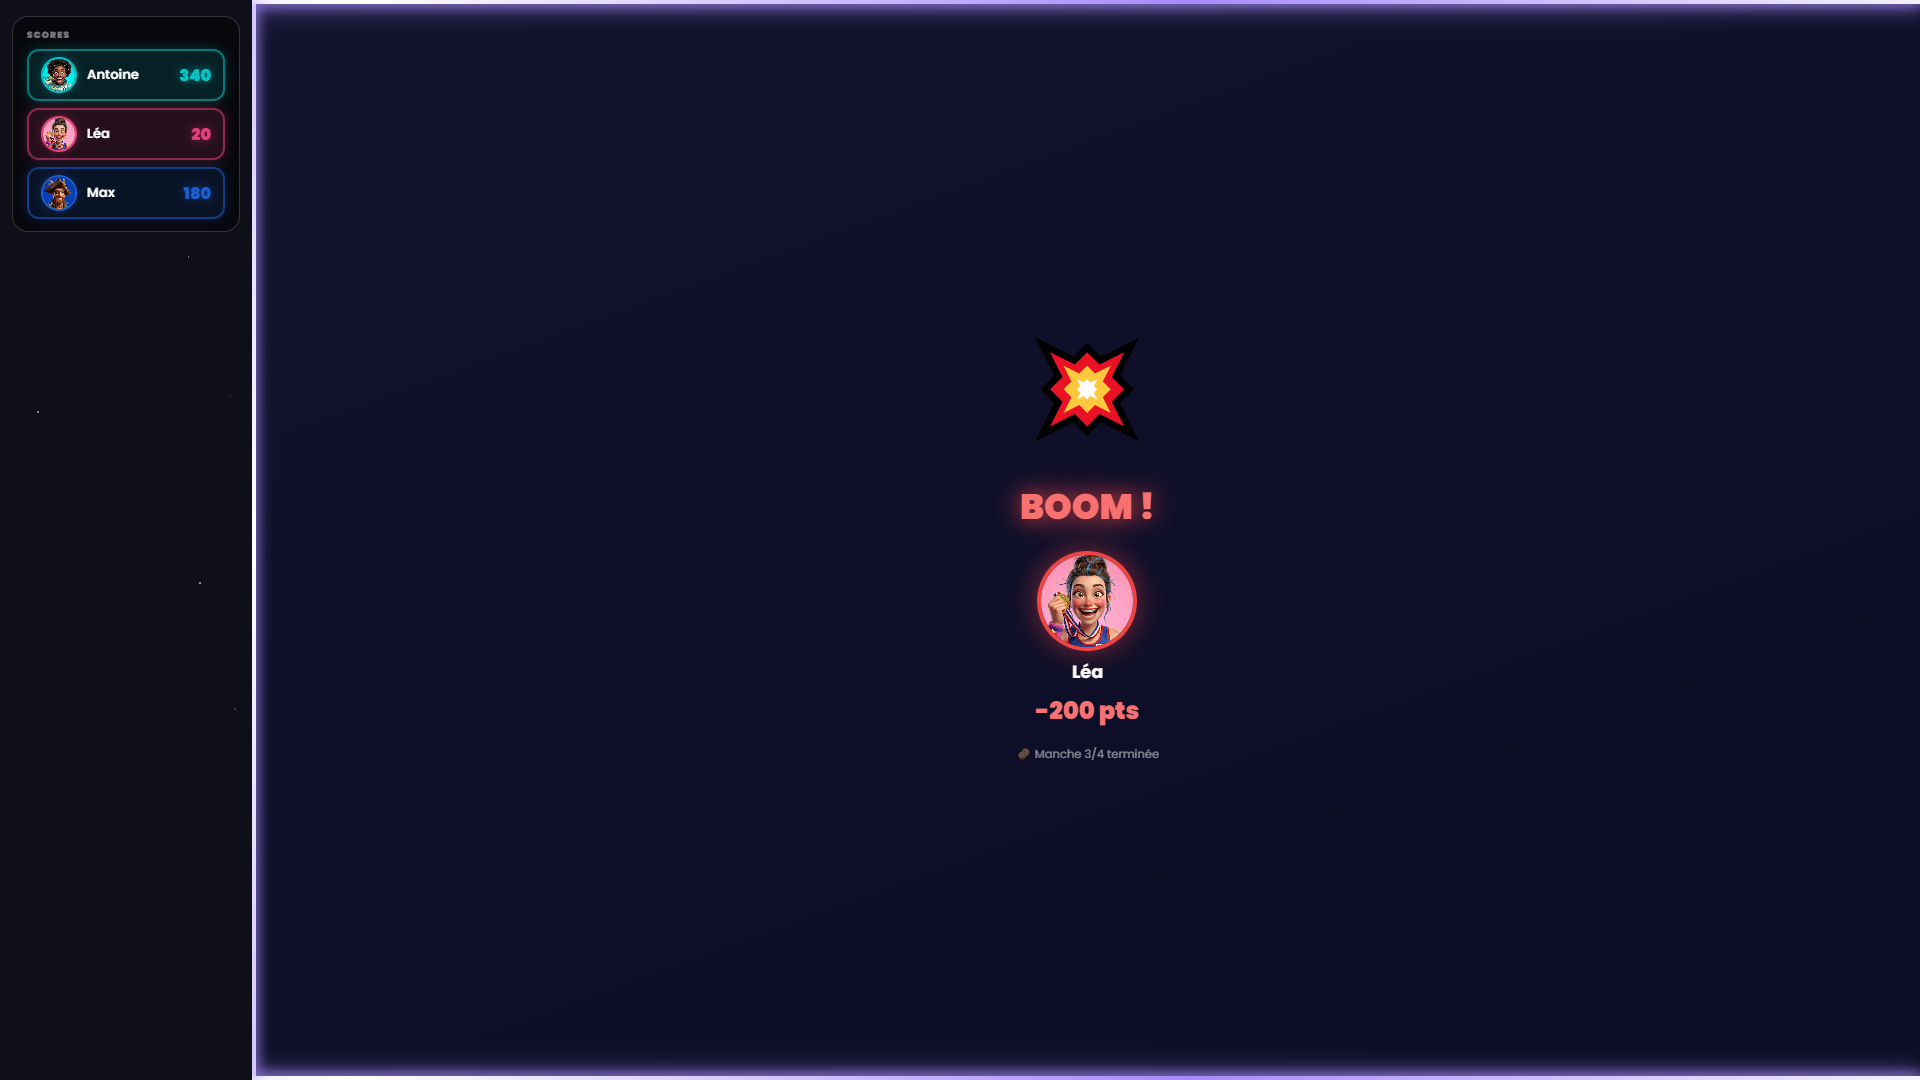
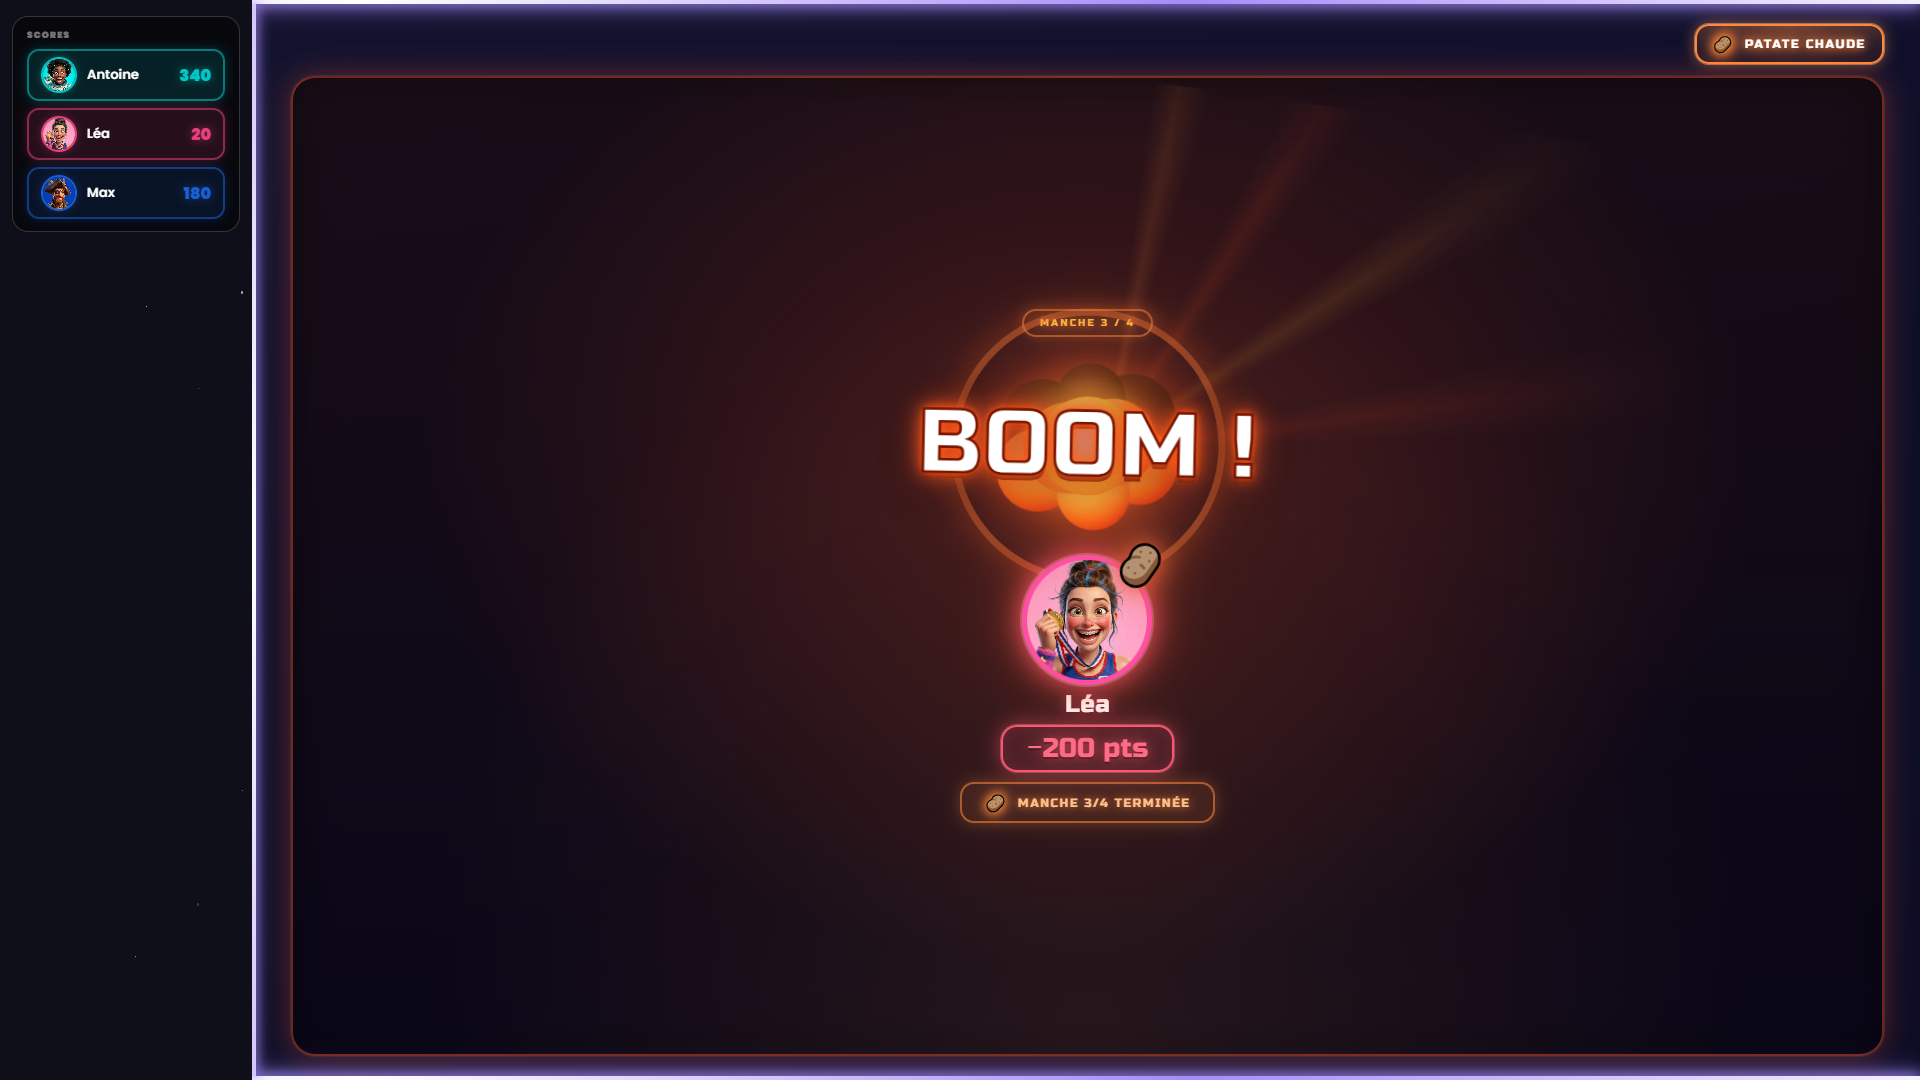
feat(inter-patate): refonte écran 'BOOM explosion' style néon

Changed region(s): [[0.125, 0.0, 1.0, 0.9778], [0.1562, 0.9778, 0.9688, 1.0], [0.5312, 0.9167, 0.5938, 0.9472]]

diff --git a/css/style.css b/css/style.css
@@ -3193,6 +3193,274 @@ input::placeholder { color:rgba(255,255,255,.3) }
 .pinte-sub-spud { font-size:1.15rem; filter:drop-shadow(0 0 6px rgba(255,138,58,.9)) }
 
 /* ════════════════════════════════════════════════════════════
+   Patate inter — "BOOM" (15-inter-patate)
+   Explosion néon orange/rouge avec fireball, débris, onde de choc
+   ════════════════════════════════════════════════════════════ */
+@keyframes pboomCloudBoil {
+  0%,100% { transform:translate(-50%,-50%) scale(1)    rotate(-2deg); }
+  50%     { transform:translate(-50%,-50%) scale(1.05) rotate(2deg); }
+}
+@keyframes pboomPuffBoil {
+  from { transform:translate(var(--x), var(--y)) scale(1); }
+  to   { transform:translate(var(--x), var(--y)) scale(1.12); }
+}
+@keyframes pboomFireballPulse {
+  0%,100% { transform:scale(1);    opacity:.96; }
+  50%     { transform:scale(1.14); opacity:1; }
+}
+@keyframes pboomFlashOut {
+  0%   { transform:translate(-50%,-50%) scale(.3); opacity:.95; }
+  40%  { opacity:.5; }
+  100% { transform:translate(-50%,-50%) scale(2.6); opacity:0; }
+}
+@keyframes pboomShockOut {
+  0%   { transform:translate(-50%,-50%) scale(.4); opacity:0; }
+  14%  { opacity:.9; }
+  100% { transform:translate(-50%,-50%) scale(2.4); opacity:0; }
+}
+@keyframes pboomDebrisFly {
+  0%   { transform:translate(-50%,-50%) scale(.4); opacity:0; }
+  12%  { opacity:1; }
+  100% { transform:translate(calc(-50% + var(--dx)), calc(-50% + var(--dy))) scale(.2); opacity:0; }
+}
+@keyframes pboomPop {
+  0%,100% { transform:translate(-50%,-50%) scale(1)    rotate(-1.5deg); }
+  50%     { transform:translate(-50%,-50%) scale(1.05) rotate(1.5deg); }
+}
+@keyframes pboomLoserShake {
+  0%,100% { transform:rotate(-2deg); }
+  25%     { transform:rotate(2deg); }
+  50%     { transform:rotate(-1.5deg); }
+  75%     { transform:rotate(1.5deg); }
+}
+@keyframes pboomStageShake {
+  10%, 90% { transform:translate(-2px, 1px); }
+  20%, 80% { transform:translate(3px, -1px); }
+  30%, 50%, 70% { transform:translate(-5px, 2px); }
+  40%, 60% { transform:translate(5px, -2px); }
+}
+
+.pboom-wrap {
+  position:relative;
+  width:100%; height:100%;
+  display:flex; flex-direction:column;
+  gap:12px;
+  z-index:1;
+  animation:pboomStageShake .55s cubic-bezier(.36,.07,.19,.97) both;
+}
+.pboom-scene {
+  flex:1; min-height:0;
+  position:relative;
+  border-radius:24px;
+  padding:18px 24px;
+  display:flex; flex-direction:column;
+  align-items:center; justify-content:center;
+  gap:10px;
+  background:
+    radial-gradient(ellipse at 50% 40%, rgba(255,84,40,.22) 0%, transparent 60%),
+    radial-gradient(ellipse at 50% 100%, rgba(255,138,58,.12) 0%, transparent 60%),
+    linear-gradient(180deg, rgba(30,10,8,.6) 0%, rgba(8,4,18,.74) 100%);
+  border:2.5px solid rgba(255,84,40,.4);
+  box-shadow:0 0 0 1px rgba(255,255,255,.06), 0 0 30px rgba(255,84,40,.34), inset 0 0 40px rgba(0,0,0,.4);
+  overflow:hidden;
+  animation:fadeIn .4s ease both;
+}
+.pboom-rays {
+  position:absolute; inset:0;
+  pointer-events:none;
+  background:
+    conic-gradient(from 0deg at 50% 38%,
+      transparent 0deg, rgba(255,138,58,.14) 4deg, transparent 9deg,
+      transparent 20deg, rgba(255,84,40,.12) 25deg, transparent 30deg,
+      transparent 44deg, rgba(255,180,60,.12) 49deg, transparent 54deg,
+      transparent 70deg, rgba(255,84,40,.10) 75deg, transparent 80deg);
+  mask:radial-gradient(circle at 50% 38%, #000 0%, #000 30%, transparent 60%);
+  -webkit-mask:radial-gradient(circle at 50% 38%, #000 0%, #000 30%, transparent 60%);
+  animation:pinteRaysSpin 26s linear infinite;
+  opacity:.85;
+}
+
+.pboom-kicker {
+  position:relative; z-index:3;
+  align-self:center;
+  display:inline-flex; align-items:center; gap:10px;
+  padding:6px 16px;
+  border-radius:999px;
+  background:rgba(255,138,58,.10);
+  border:2px solid rgba(255,138,58,.5);
+  box-shadow:0 0 14px rgba(255,138,58,.3);
+  font-family:'Russo One',sans-serif;
+  font-size:.62rem; letter-spacing:.22em;
+  color:#ffb43c;
+  text-shadow:0 0 8px #ff8a3a;
+}
+
+.pboom-head {
+  position:relative; z-index:3;
+  flex-shrink:0;
+  display:flex; align-items:center; justify-content:center;
+  margin-top:4px;
+}
+.pboom-burst {
+  position:relative;
+  width:190px; height:190px;
+  display:flex; align-items:center; justify-content:center;
+}
+.pboom-cloud {
+  position:absolute; left:50%; top:50%;
+  width:190px; height:190px;
+  transform:translate(-50%,-50%);
+  z-index:3;
+  filter:drop-shadow(0 0 24px rgba(255,84,40,.65));
+  animation:pboomCloudBoil 1.8s ease-in-out infinite;
+}
+.pboom-puff {
+  position:absolute;
+  width:var(--d); height:var(--d);
+  left:50%; top:50%;
+  border-radius:50%;
+  margin:calc(var(--d) / -2) 0 0 calc(var(--d) / -2);
+  transform:translate(var(--x), var(--y));
+  background:radial-gradient(circle at 38% 32%,
+    #ffe7a6 0%, #ffb43c 30%, #ff6a1a 58%, #d61c10 86%);
+  animation:pboomPuffBoil var(--t,2s) ease-in-out infinite alternate;
+}
+.pboom-puff.smoke {
+  background:radial-gradient(circle at 40% 34%,
+    #6b3320 0%, #4a2014 55%, #2a0f08 88%);
+  opacity:.92;
+}
+.pboom-fireball {
+  position:relative; z-index:4;
+  width:88px; height:88px;
+  border-radius:50%;
+  background:radial-gradient(circle at 45% 40%,
+    #ffffff 0%, #fff3b0 28%, #ffd23a 50%, #ff7a18 78%, rgba(255,84,40,0) 92%);
+  box-shadow:0 0 32px #ffb43c, 0 0 72px rgba(255,120,30,.8);
+  animation:pboomFireballPulse .9s ease-in-out infinite;
+}
+.pboom-flash {
+  position:absolute; left:50%; top:50%;
+  width:110px; height:110px;
+  border-radius:50%;
+  transform:translate(-50%,-50%);
+  background:radial-gradient(circle, rgba(255,255,255,.9) 0%, rgba(255,210,90,.4) 35%, transparent 70%);
+  z-index:5;
+  animation:pboomFlashOut 1.9s ease-out infinite;
+  opacity:0;
+}
+.pboom-shock {
+  position:absolute; left:50%; top:50%;
+  width:160px; height:160px;
+  border-radius:50%;
+  border:4px solid rgba(255,120,50,.9);
+  transform:translate(-50%,-50%) scale(.4);
+  box-shadow:0 0 22px rgba(255,100,30,.7);
+  opacity:0;
+  animation:pboomShockOut 1.9s cubic-bezier(.2,.6,.4,1) infinite;
+  z-index:2;
+}
+.pboom-shock.b { animation-delay:.95s; }
+.pboom-debris {
+  position:absolute; left:50%; top:50%;
+  width:10px; height:10px;
+  border-radius:50%;
+  background:radial-gradient(circle, #ffe6b0 0%, #ff7a1a 60%, transparent 74%);
+  filter:drop-shadow(0 0 5px #ff8a3a);
+  opacity:0;
+  animation:pboomDebrisFly 1.8s ease-out infinite;
+  z-index:2;
+}
+.pboom-text {
+  position:absolute;
+  left:50%; top:50%;
+  transform:translate(-50%,-50%);
+  z-index:6;
+  font-family:'Russo One',sans-serif;
+  font-size:5.4rem; letter-spacing:.02em; line-height:1;
+  white-space:nowrap;
+  color:#fff;
+  -webkit-text-stroke:2.5px #7a1500;
+  text-shadow:
+    0 0 6px #ff5a18,
+    0 0 16px #ff5a18,
+    0 0 32px rgba(255,84,40,1),
+    0 0 56px rgba(0,0,0,.9),
+    0 5px 0 rgba(80,15,0,.9);
+  animation:pboomPop 1.5s ease-in-out infinite;
+}
+
+.pboom-loser {
+  position:relative; z-index:3;
+  display:flex; flex-direction:column; align-items:center;
+  gap:8px;
+  margin-top:4px;
+}
+.pboom-loser-disc-wrap { position:relative; }
+.pboom-loser-disc {
+  position:relative;
+  width:130px; height:130px;
+  border-radius:50%;
+  border:5px solid #ff4fa2;
+  background:var(--avb, #d62d8a);
+  box-shadow:
+    0 0 0 2px rgba(255,255,255,.18),
+    0 0 26px #ff5470,
+    0 0 60px rgba(255,84,40,.6),
+    inset 0 0 14px rgba(0,0,0,.4);
+  overflow:hidden;
+  animation:pboomLoserShake 1.4s ease-in-out infinite;
+}
+.pboom-loser-disc img { width:100%; height:100%; object-fit:cover; object-position:center top; display:block; }
+.pboom-loser-spud {
+  position:absolute;
+  top:-18px; right:-14px;
+  z-index:4;
+  font-size:2.4rem;
+  transform:rotate(-10deg);
+  filter:
+    drop-shadow(0 0 10px rgba(255,84,40,.95))
+    drop-shadow(0 0 20px rgba(255,100,20,.6))
+    grayscale(.2);
+}
+.pboom-loser-name {
+  font-family:'Russo One',sans-serif;
+  font-size:1.5rem; color:#fff;
+  text-shadow:0 0 12px rgba(255,84,112,.7), 0 2px 4px rgba(0,0,0,.6);
+  letter-spacing:.02em; line-height:1;
+}
+.pboom-loser-delta {
+  font-family:'Russo One',sans-serif;
+  font-size:1.7rem; line-height:1;
+  color:#ff6a86;
+  padding:8px 24px;
+  border-radius:16px;
+  background:rgba(255,84,112,.12);
+  border:2.5px solid #ff5470;
+  box-shadow:
+    0 0 0 1px rgba(255,180,190,.28),
+    0 0 22px rgba(255,84,112,.55),
+    inset 0 0 14px rgba(255,84,112,.14);
+  text-shadow:0 0 14px rgba(255,84,112,.8), 0 2px 0 rgba(0,0,0,.4);
+}
+
+.pboom-done {
+  position:relative; z-index:3;
+  align-self:center;
+  display:inline-flex; align-items:center; gap:10px;
+  padding:8px 22px;
+  border-radius:14px;
+  background:rgba(255,138,58,.10);
+  border:2px solid rgba(255,138,58,.55);
+  box-shadow:0 0 16px rgba(255,138,58,.32);
+  font-family:'Russo One',sans-serif;
+  font-size:.78rem; letter-spacing:.1em;
+  color:#ffc089;
+  text-shadow:0 0 10px #ff8a3a;
+}
+.pboom-done-spud { font-size:1rem; filter:drop-shadow(0 0 6px rgba(255,138,58,.9)); }
+
+/* ════════════════════════════════════════════════════════════
    Inter Steal — Vol réussi (14-inter-steal)
    Identité orange (devil) + duel thief/victim + Mario coin lob
    ════════════════════════════════════════════════════════════ */

diff --git a/js/ui-inter.js b/js/ui-inter.js
@@ -503,22 +503,79 @@ function interPatate(room, gs) {
   const isPass = msg.includes('passe');
   let content;
   if (isExplosion) {
+    // ── BOOM : design néon orange/rouge avec explosion et joueur éliminé ──
     const loser = gs.result?.scorer;
     const lossPts = Math.abs(gs.result?.pts || 0);
-    let loserHtml = '';
+    const mancheCur = gs.patateManche || 0;
+    const mancheTotal = 4;
+
+    // Avatar du perdant
+    let loserBlock = '';
     if (loser) {
       const idx = gs.players.indexOf(loser);
       const rp = _rp.find(x => x.name === loser);
       const av = AVATARS[(rp&&rp.avatar!==undefined)?rp.avatar:(idx%AVATARS.length)]||AVATARS[0];
-      loserHtml = `<img src="${AVATAR_PATH}${av.file}" style="width:100px;height:100px;border-radius:50%;object-fit:cover;border:4px solid #ef4444;box-shadow:0 0 28px #ef444488;animation:wrongShake .35s ease both" alt="">
-        <div style="font-size:1.1rem;font-weight:700">${loser}</div>
-        <div style="font-size:1.5rem;font-weight:900;color:#f87171">-${lossPts} pts</div>`;
+      loserBlock = `
+        <div class="pboom-loser" style="--avb:${av.bg}">
+          <div class="pboom-loser-disc-wrap">
+            <div class="pboom-loser-disc"><img src="${AVATAR_PATH}${av.file}" alt=""></div>
+            <div class="pboom-loser-spud">🥔</div>
+          </div>
+          <div class="pboom-loser-name">${loser}</div>
+          <div class="pboom-loser-delta">−${lossPts} pts</div>
+        </div>`;
     }
+
+    // Débris embers (12 directions)
+    let debrisHtml = '';
+    for (let k = 0; k < 12; k++) {
+      const ang = (k / 12) * Math.PI * 2 + 0.3;
+      const dist = 130 + (k % 3) * 34;
+      const dx = Math.cos(ang) * dist;
+      const dy = Math.sin(ang) * dist;
+      const delay = (k % 5) * 0.18;
+      debrisHtml += `<span class="pboom-debris" style="--dx:${dx}px;--dy:${dy}px;animation-delay:${delay}s"></span>`;
+    }
+
+    // Puffs (overlapping fireball cloud)
+    const puffs = [
+      { d:78,  x:-44, y:-24, t:2.1, smoke:true },
+      { d:84,  x:42,  y:-28, t:2.4, smoke:true },
+      { d:72,  x:50,  y:20,  t:1.9, smoke:false },
+      { d:80,  x:-48, y:24,  t:2.3, smoke:false },
+      { d:66,  x:2,   y:-46, t:2.0, smoke:true },
+      { d:70,  x:6,   y:46,  t:2.5, smoke:false },
+      { d:88,  x:-18, y:2,   t:1.8, smoke:false },
+      { d:84,  x:24,  y:-4,  t:2.2, smoke:false },
+    ];
+    const puffsHtml = puffs.map((p, k) =>
+      `<span class="pboom-puff ${p.smoke?'smoke':''}" style="--d:${p.d}px;--x:${p.x}px;--y:${p.y}px;--t:${p.t}s;animation-delay:${(k%4)*0.2}s"></span>`
+    ).join('');
+
     content = `
-      <div style="font-size:6rem;animation:popIn .5s cubic-bezier(.36,.07,.19,.97) both">💥</div>
-      <div style="font-size:2.2rem;font-weight:900;color:#f87171;text-shadow:0 0 24px #ef4444;animation:sUp .3s ease both">BOOM !</div>
-      <div style="text-align:center;display:flex;flex-direction:column;align-items:center;gap:8px">${loserHtml}</div>
-      <div style="font-size:.72rem;color:rgba(255,255,255,.5)">🥔 Manche ${gs.patateManche||0}/4 terminée</div>
+      <div class="pboom-wrap">
+        <div class="pinte-chip"><span class="pinte-chip-spud">🥔</span>PATATE CHAUDE</div>
+        <div class="pboom-scene">
+          <div class="pboom-rays"></div>
+          <div class="pboom-kicker">MANCHE ${mancheCur} / ${mancheTotal}</div>
+          <div class="pboom-head">
+            <div class="pboom-burst">
+              <span class="pboom-shock"></span>
+              <span class="pboom-shock b"></span>
+              ${debrisHtml}
+              <div class="pboom-cloud">${puffsHtml}</div>
+              <span class="pboom-fireball"></span>
+              <span class="pboom-flash"></span>
+            </div>
+            <div class="pboom-text">BOOM&nbsp;!</div>
+          </div>
+          ${loserBlock}
+          <div class="pboom-done">
+            <span class="pboom-done-spud">🥔</span>
+            MANCHE ${mancheCur}/${mancheTotal} TERMINÉE
+          </div>
+        </div>
+      </div>
     `;
   } else if (isPass) {
     // ── Passe : design néon "comète enflammée" entre les 2 joueurs ──
